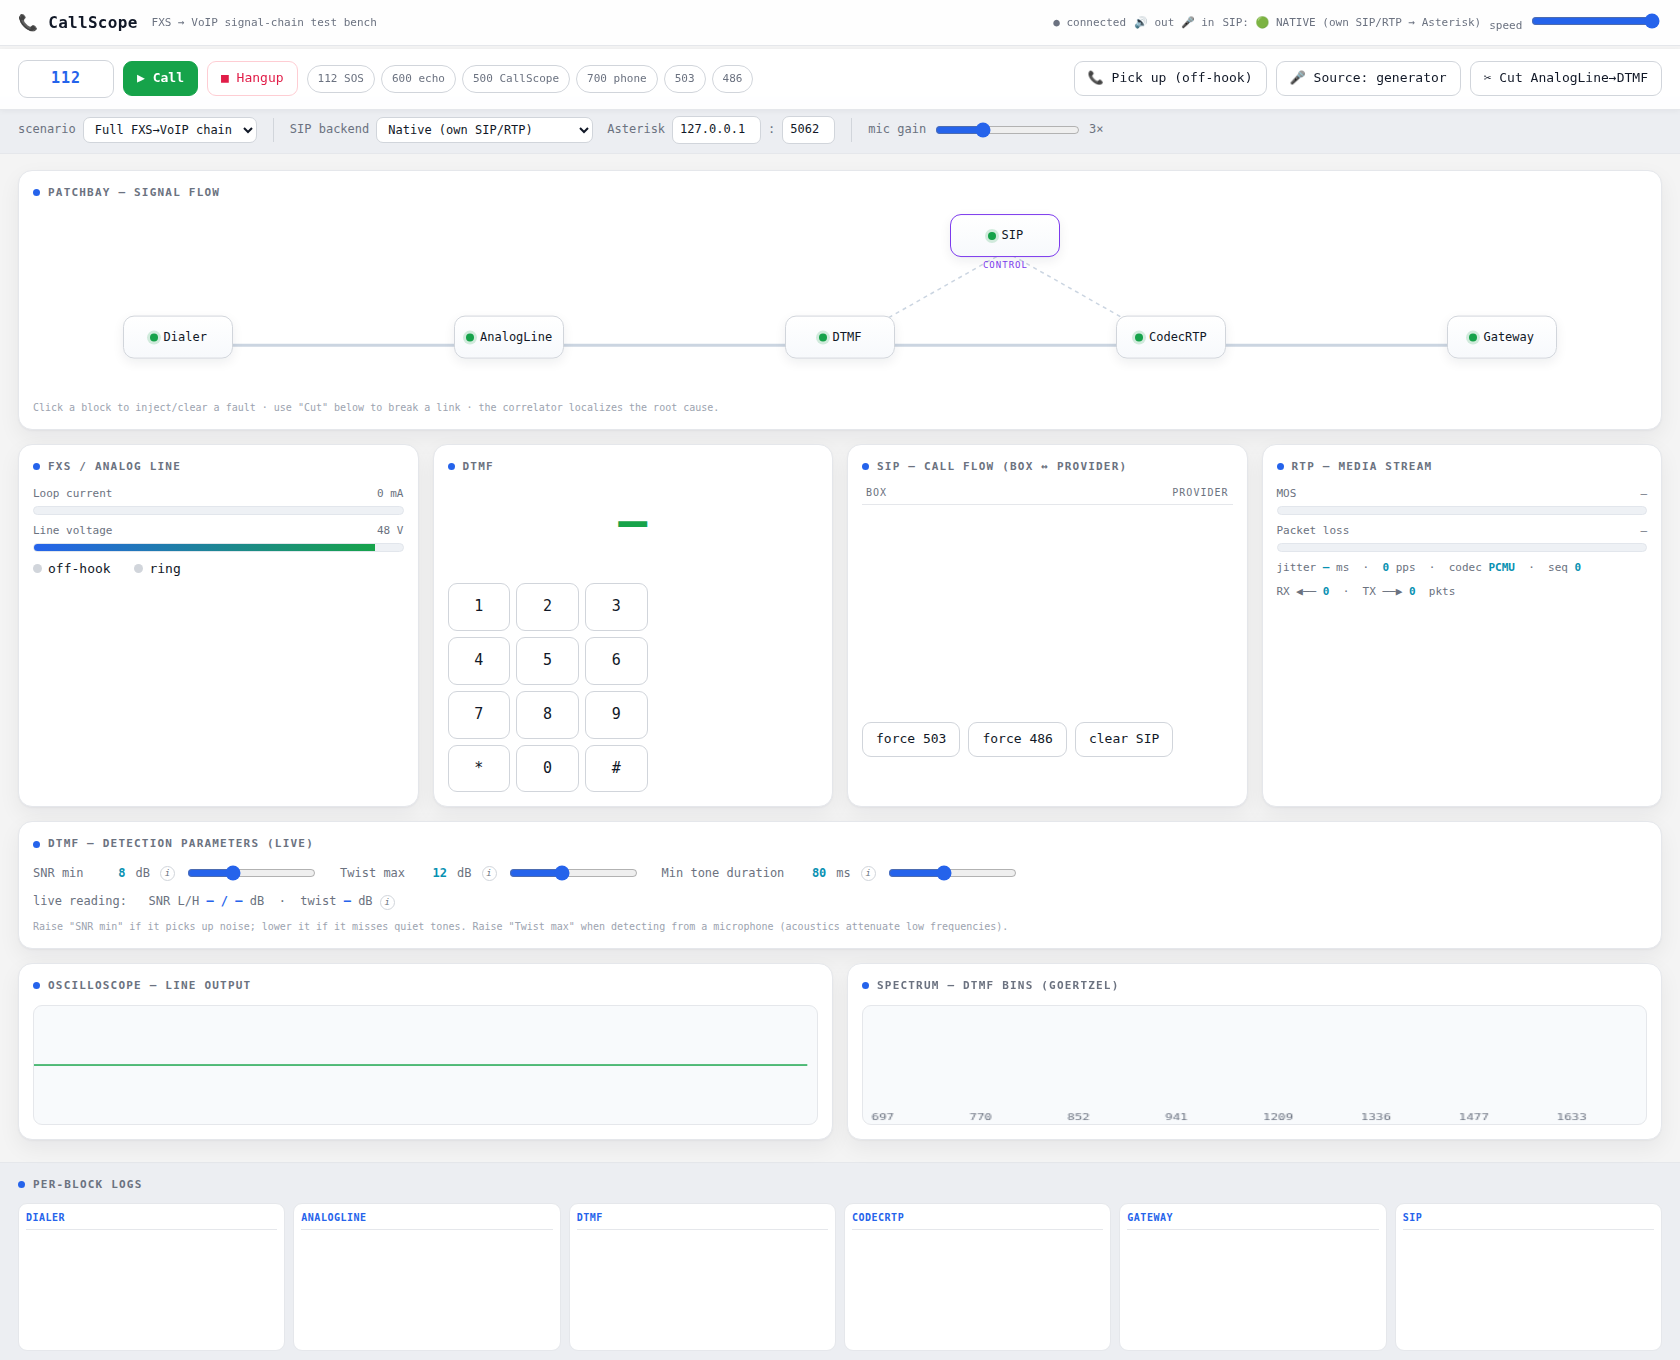
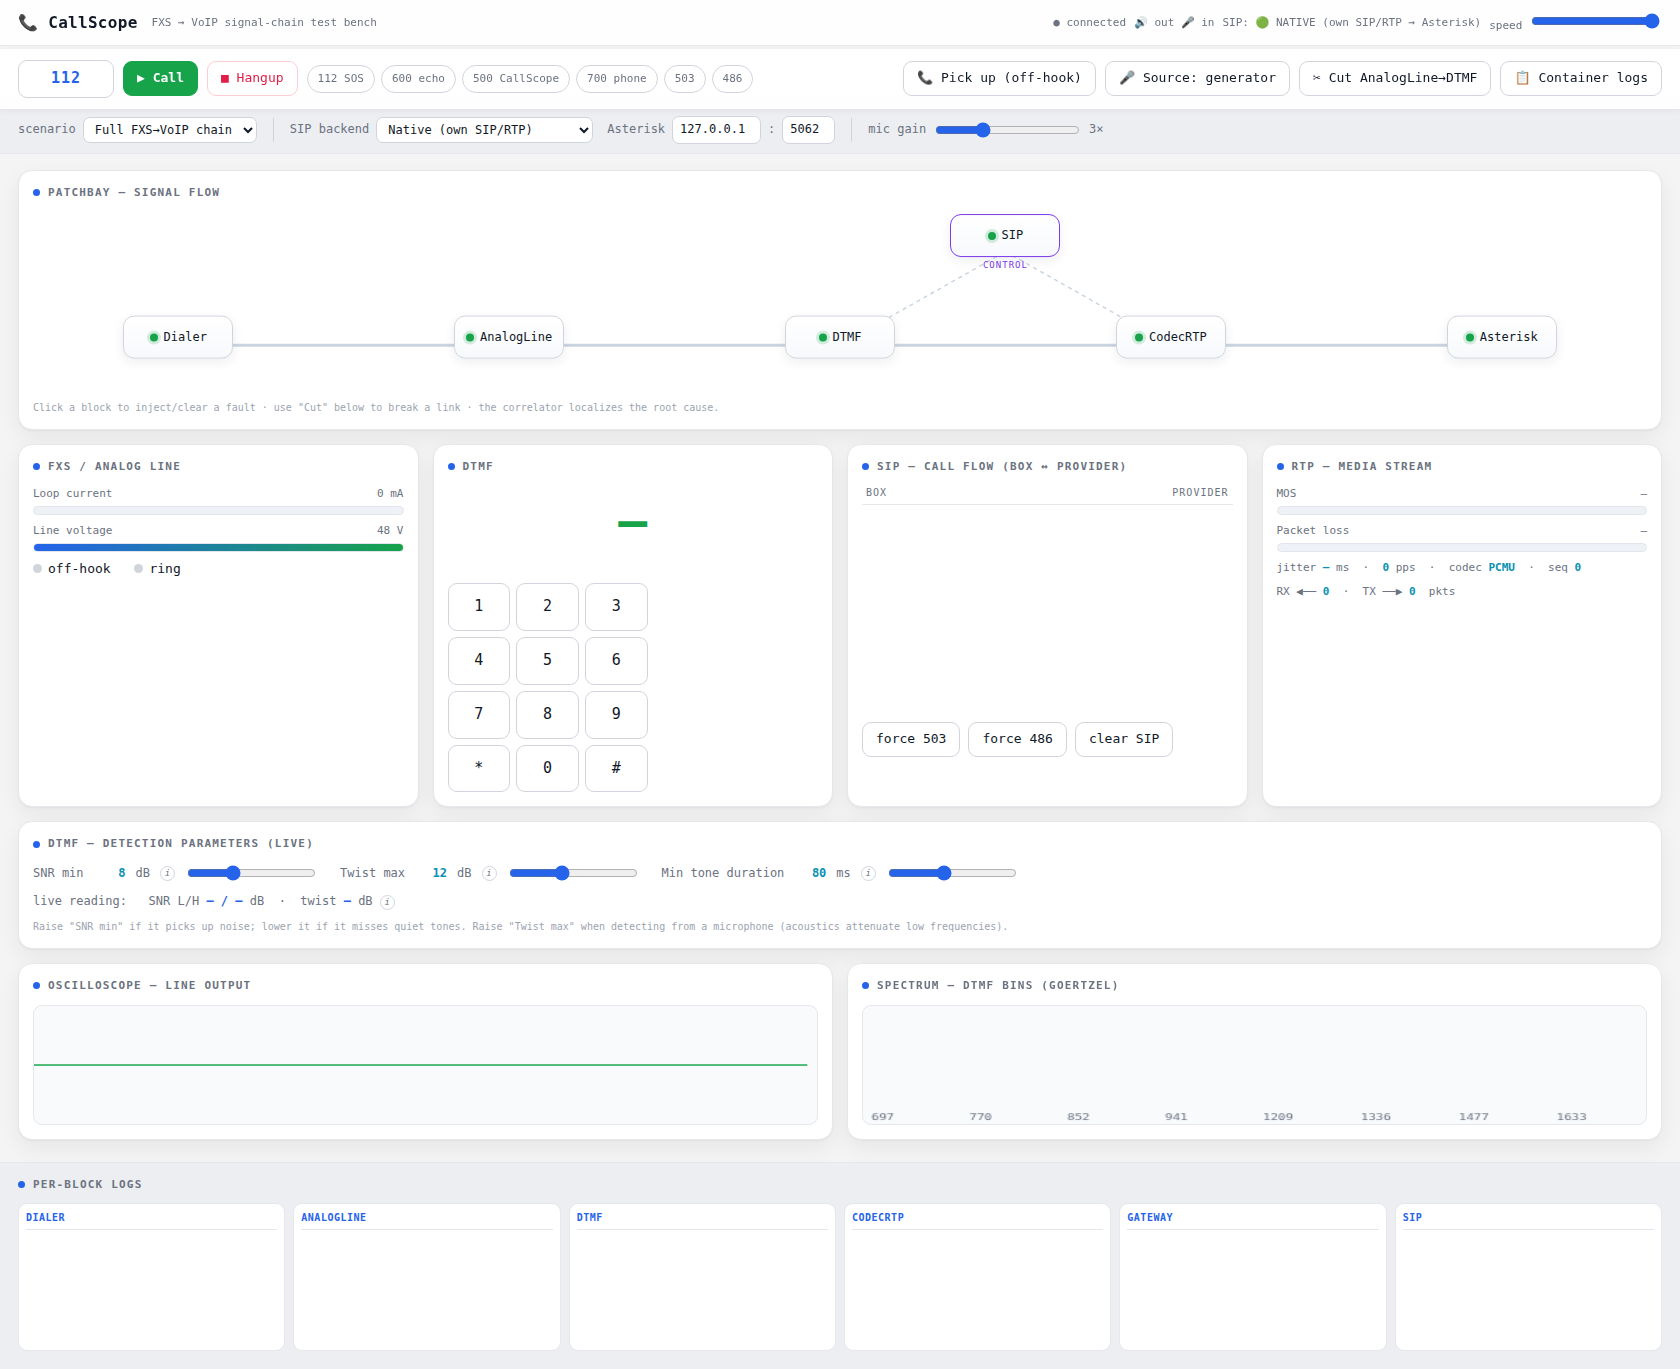
Release v0.7.4: refresh screenshots, changelog, version bump
Refreshed dashboard screenshots from the live UI (native mode, real call to
Asterisk echo) via a new reusable tools/capture_screenshots.py. Document the
0.7.3 and 0.7.4 changes in the changelog and bump the docs version to 0.7.4.

diff --git a/tools/capture_screenshots.py b/tools/capture_screenshots.py
@@ -1,0 +1,124 @@
+#!/usr/bin/env python3
+"""Refresh docs/screenshots/*.png from the live dashboard via headless Chrome.
+
+Self-contained: launches the app in `native` SIP mode (own SIP/RTP -> the bundled
+Asterisk), opens the dashboard in headless Chrome over the DevTools Protocol,
+captures the idle dashboard, then drives a real call to extension 600 (echo) over
+the WebSocket API and captures the call-in-progress view (SIP ladder + live RTP).
+
+Usage:  python tools/capture_screenshots.py
+Requires: google-chrome / chromium on PATH, the Asterisk container running, and a
+working host audio stack (the call uses the native RTP path). Mute your speaker to
+avoid echo feedback, e.g. `pactl set-sink-mute @DEFAULT_SINK@ 1`.
+"""
+from __future__ import annotations
+import asyncio
+import base64
+import json
+import os
+import shutil
+import subprocess
+import sys
+import time
+import urllib.request
+
+import websockets
+
+ROOT = os.path.dirname(os.path.dirname(os.path.abspath(__file__)))
+OUT = os.path.join(ROOT, "docs", "screenshots")
+PORT = int(os.environ.get("CS_PORT", "8021"))
+CDP_PORT = int(os.environ.get("CS_CDP_PORT", "9333"))
+HTTP = f"http://127.0.0.1:{PORT}/"
+WS = f"ws://127.0.0.1:{PORT}/ws"
+W, H = 1680, 1050
+
+
+def _chrome_bin() -> str:
+    for c in ("google-chrome", "chromium", "chromium-browser", "chrome"):
+        if shutil.which(c):
+            return c
+    sys.exit("no chrome/chromium on PATH")
+
+
+async def _cdp(ws, mid, method, params=None):
+    """Send one CDP command and return its result (skipping async events)."""
+    await ws.send(json.dumps({"id": mid, "method": method, "params": params or {}}))
+    while True:
+        msg = json.loads(await ws.recv())
+        if msg.get("id") == mid:
+            return msg.get("result", {})
+
+
+async def _page_ws_url() -> str:
+    """Find the dashboard page target's CDP WebSocket URL."""
+    for _ in range(50):
+        try:
+            targets = json.load(urllib.request.urlopen(f"http://127.0.0.1:{CDP_PORT}/json"))
+            for t in targets:
+                if t.get("type") == "page" and str(t.get("url", "")).startswith(HTTP):
+                    return t["webSocketDebuggerUrl"]
+        except Exception:
+            pass
+        await asyncio.sleep(0.2)
+    sys.exit("dashboard page target not found")
+
+
+async def _shot(ws, path: str):
+    """Capture a full-page PNG to `path`."""
+    m = await _cdp(ws, 100, "Page.getLayoutMetrics")
+    size = m.get("cssContentSize") or m.get("contentSize")
+    clip = {"x": 0, "y": 0, "width": size["width"],
+            "height": size["height"], "scale": 1}
+    res = await _cdp(ws, 101, "Page.captureScreenshot",
+                     {"format": "png", "captureBeyondViewport": True, "clip": clip})
+    with open(path, "wb") as f:
+        f.write(base64.b64decode(res["data"]))
+    print(f"  wrote {os.path.relpath(path, ROOT)}  ({size['width']:.0f}x{size['height']:.0f})")
+
+
+async def _dial(number: str):
+    """Place a call over the dashboard WS API (server-side state, outlives this client)."""
+    async with websockets.connect(WS) as ws:
+        await ws.recv()                                   # hello
+        await ws.send(json.dumps({"cmd": "set_source", "args": {"mode": "gen"}}))
+        await ws.send(json.dumps({"cmd": "start_call", "args": {"number": number}}))
+        await asyncio.sleep(0.3)
+
+
+async def main():
+    os.makedirs(OUT, exist_ok=True)
+    env = {**os.environ, "PYTHONPATH": os.path.join(ROOT, "backend"),
+           "CALLSCOPE_SIP_MODE": "native", "CALLSCOPE_SIP_PORT": "5062"}
+    app = subprocess.Popen([sys.executable, "-m", "uvicorn", "app.main:app",
+                            "--host", "127.0.0.1", "--port", str(PORT), "--log-level", "warning"],
+                           env=env, cwd=ROOT)
+    chrome = subprocess.Popen([_chrome_bin(), "--headless=new",
+                               f"--remote-debugging-port={CDP_PORT}",
+                               f"--window-size={W},{H}", "--hide-scrollbars",
+                               "--force-device-scale-factor=1", "--no-sandbox",
+                               "--no-first-run", "--no-default-browser-check", HTTP],
+                              stdout=subprocess.DEVNULL, stderr=subprocess.DEVNULL)
+    try:
+        time.sleep(4)                                     # app + chrome warm up
+        url = await _page_ws_url()
+        async with websockets.connect(url, max_size=None) as ws:
+            await _cdp(ws, 1, "Page.enable")
+            await asyncio.sleep(2.5)                       # dashboard connects + renders hello
+            print("capturing idle dashboard...")
+            await _shot(ws, os.path.join(OUT, "dashboard.png"))
+            print("placing call to 600 (echo)...")
+            await _dial("600")
+            await asyncio.sleep(7)                          # DTMF dial + INVITE/digest/200/ACK + RTP
+            print("capturing call in progress...")
+            await _shot(ws, os.path.join(OUT, "call-in-progress.png"))
+    finally:
+        for p in (chrome, app):
+            p.terminate()
+            try:
+                p.wait(timeout=5)
+            except subprocess.TimeoutExpired:
+                p.kill()
+
+
+if __name__ == "__main__":
+    asyncio.run(main())

diff --git a/docs/conf.py b/docs/conf.py
@@ -8,8 +8,8 @@ sys.path.insert(0, os.path.abspath(os.path.join("..", "backend")))
 project = "CallScope"
 author = "Jakub Michalik"
 copyright = "2026, Jakub Michalik"
-release = "0.7.3"
-version = "0.7.3"
+release = "0.7.4"
+version = "0.7.4"
 
 extensions = [
     "sphinx.ext.autodoc",

diff --git a/CHANGELOG.md b/CHANGELOG.md
@@ -3,6 +3,35 @@
 All notable changes to CallScope. Hosted docs: <https://jakub-michalik.github.io/callScope/> ·
 Releases: <https://github.com/jakub-michalik/callScope/releases>
 
+## [0.7.4] — 2026-06-04
+### Fixed
+- **Live baresip backend stuck at INVITE.** The `ctrl_tcp` socket kept the 2 s connect
+  timeout, so the reader thread's `recv()` raised `socket.timeout` after 2 s of silence and
+  died before the call event arrived — the ladder froze at INVITE. Connect with a timeout,
+  then block in the read loop.
+- **Hang-up is now honoured in any non-idle state** (incl. `CALLING`); it was a no-op while a
+  call was still ringing out, leaving a live mic call running.
+- **Periodic re-REGISTER no longer pollutes the call-flow ladder** and no longer rewrites the
+  call state — a `regint` refresh landing mid-call could knock an active call to `IDLE`.
+### Added
+- **Opt-in host audio for the baresip container** (`docker-compose.audio.yml`): routes
+  baresip's ALSA `default` through the ALSA→PulseAudio plugin to the host's PipeWire/Pulse
+  over loopback TCP, so dialling echo (600) on the `live` backend is audible.
+- Reusable `tools/capture_screenshots.py` to refresh the docs screenshots from the live UI.
+### Changed
+- **Cleaner container-log overlay**: silence baresip's `audio=N/N (bit/s)` status spam at the
+  source (`statmode_default off`), strip ANSI colour codes, and drop Asterisk's healthcheck
+  `Remote UNIX connection` noise — so REGISTER/INVITE/Answer/Echo are actually visible.
+- Refreshed dashboard screenshots (native mode, real call to Asterisk echo).
+
+## [0.7.3] — 2026-06-04
+### Fixed
+- **baresip live media**: replaced the 48 kHz-only `ausine` audio source with an `aufile`
+  reading an 8 kHz WAV, so PCMU/8000 calls actually establish (were failing with
+  "session closed: Operation not supported").
+### Added
+- **Timestamps** on the dashboard's container-log overlay (`docker logs --timestamps`).
+
 ## [0.7.2] — 2026-06-03
 ### Added
 - **Investigating problems** guide in the docs — the fault-analysis workflow (dashboard → SIP